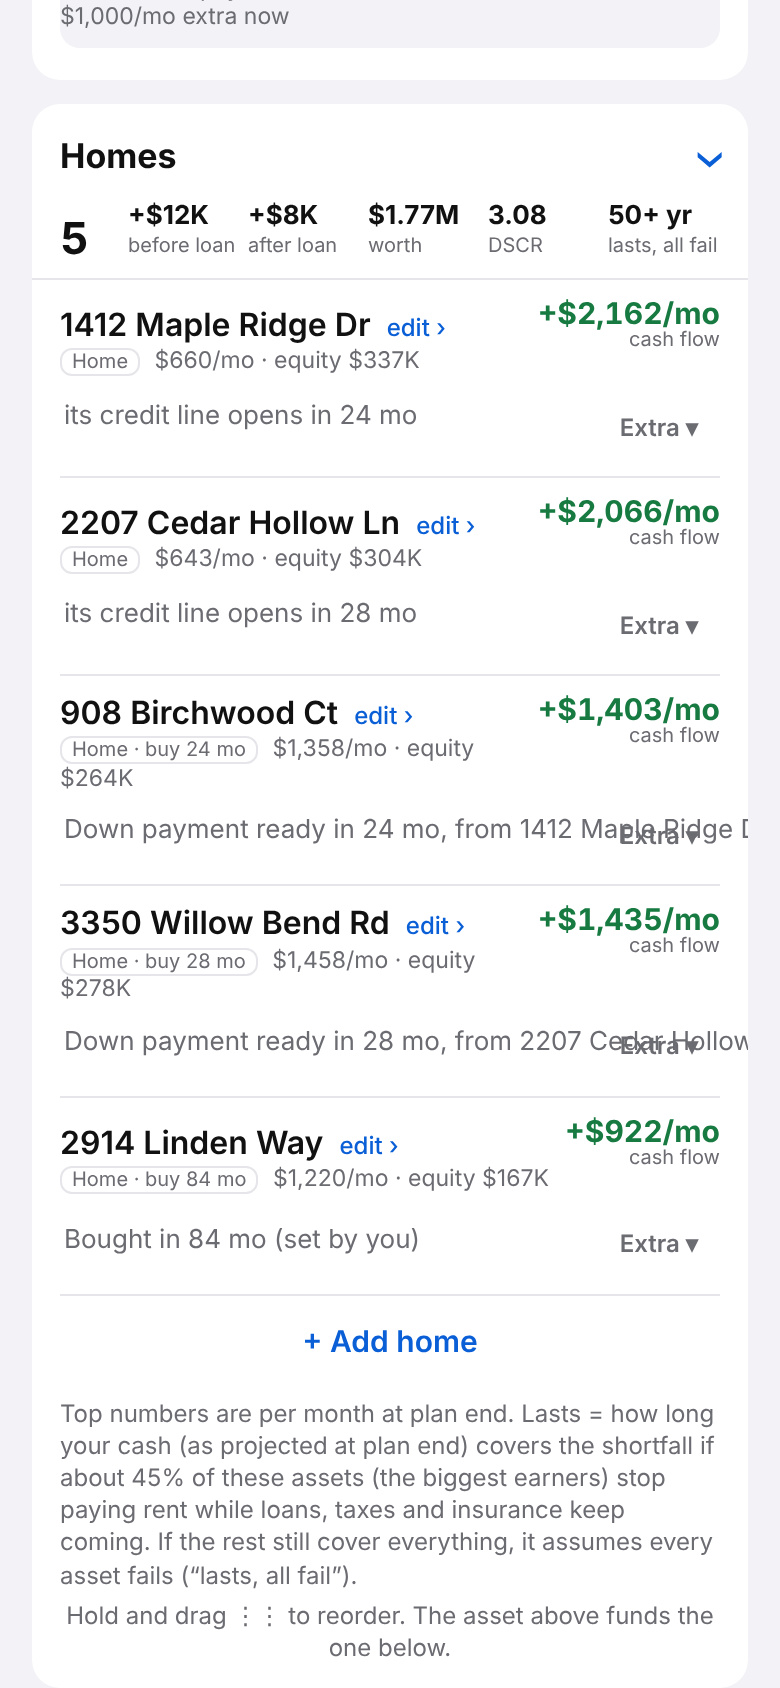
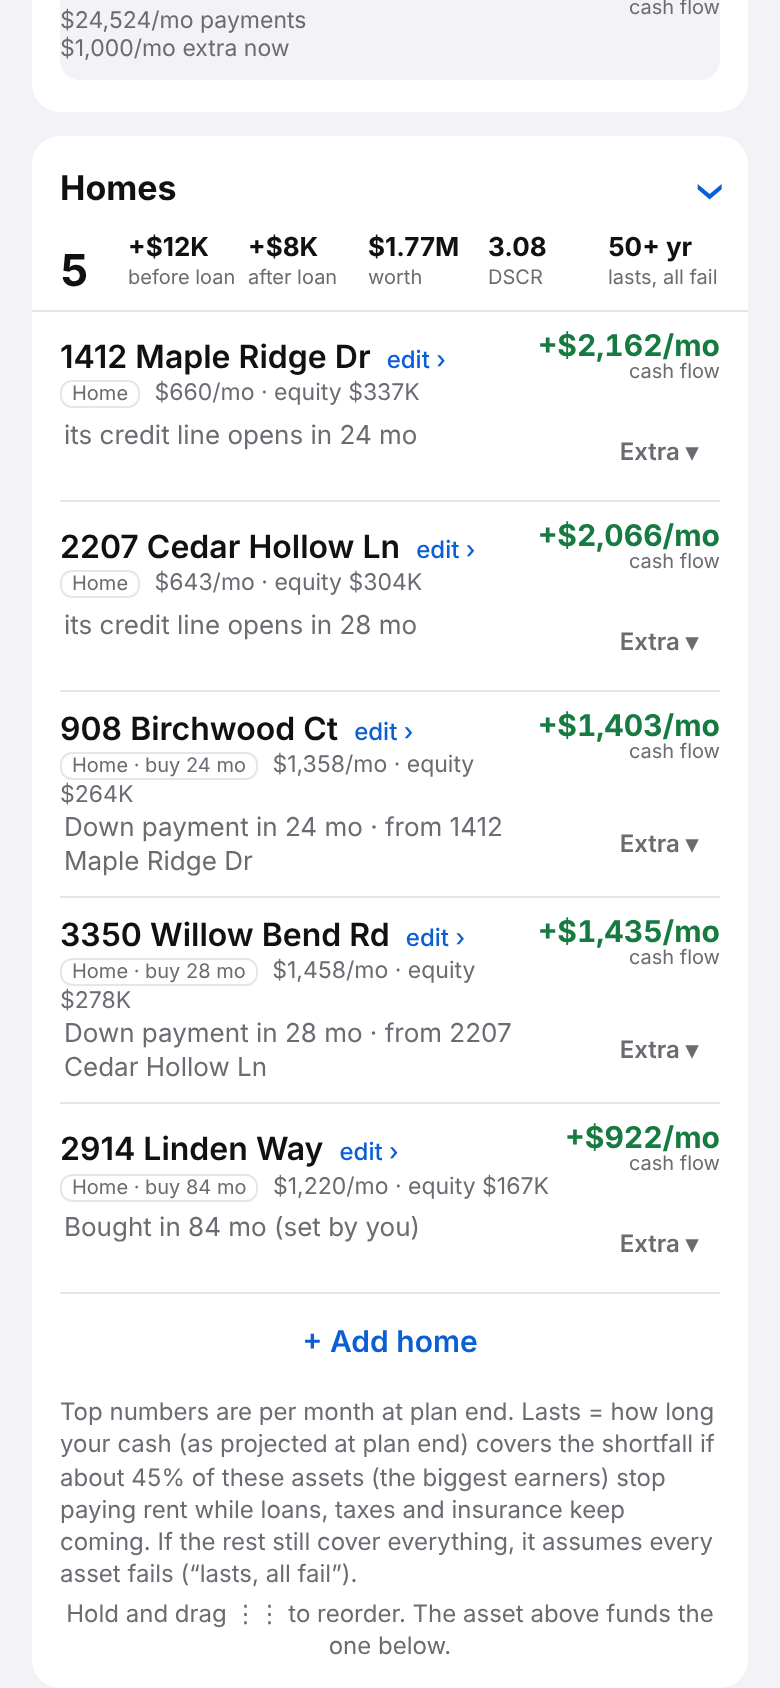
Fix overlapping row text: wrap down-payment line, shorter copy
Claude-Session: https://claude.ai/code/session_01T1SyQgdTcpALEohR2VebD5

diff --git a/prototype/v4/artifact.html b/prototype/v4/artifact.html
@@ -286,6 +286,10 @@ select.notarget{color:var(--mut);font-weight:400;font-size:14px}
 
 .xtog{min-height:32px;padding:0 10px;font-size:12px;font-weight:600;border-color:transparent;color:var(--mut)}
 .row .locline{font-size:13px}
+.row .fcol{flex:1 1 0;min-width:0}
+.row .fcol .locline{white-space:normal;overflow-wrap:anywhere;margin-top:0;font-size:13px;line-height:1.3}
+.row .r2{align-items:flex-start;flex-wrap:nowrap}
+.row .xtog{flex:none;margin:0}
 
 </style>
 <main id="app" aria-live="polite"></main>
@@ -987,7 +991,7 @@ select.notarget{color:var(--mut);font-weight:400;font-size:14px}
       const hi = v.X > 2000 && v.X > 3 * v.P ? '<span class="hi">unusually high extra</span>' : '';
       return `<div class="rw" data-rw="${h.id}"><div class="row${soldBy ? ' sold' : ''}${sel ? ' sel' : ''}" data-row="${h.id}" data-testid="ledger-row"${soldBy ? ' data-nodrag' : ''}><div class="r1"><span class="nm"><button type="button" class="addrbtn" aria-expanded="${sel}" data-testid="row-toggle"><span class="addr" data-go="h/${h.id}" data-testid="row-edit" title="Edit ${esc(h.addr)}">${esc(h.addr)} <i class="ed" aria-hidden="true">edit ›</i></span><span class="pay" data-testid="row-payment" data-k="pay-${h.id}" data-equity="${sp ? Math.round(sp.equity) : ''}"><span class="tag">${tag}</span> ${soldBy ? 'sold' : sp ? (sp.payment > 0.5 ? $f(sp.payment) + '/mo' : v.payment > 0.5 ? 'paid off by then' : 'no loan') + ' · equity ' + $k(sp.equity) : 'not in the totals yet'} ${hi}${loses}</span>${(() => { const parts = []; if (h.capex) parts.push('improve ' + $c(h.capex)); if (soldBy) parts.push('sold for ' + $c(pl.exits[h.id].proceeds) + ' in ' + mm(pl.sellAt[h.id])); else if (exitTxt) parts.push(exitTxt); return parts.length ? `<span class="exitline">${parts.join(' · ')}</span>` : ''; })()}</button></span>
         <span class="cfl ${(sp ? sp.cf : 0) < 0 ? 'bad' : 'ok'}" data-testid="row-cashflow" title="This asset's share of the portfolio cash flow: income minus expenses and loan payments, before extra payments"><b data-k="cf-${h.id}">${soldBy ? '+' + $c(pl.exits[h.id].proceeds) : !sp ? '—' : $s(sp.cf) + '/mo'}</b><small>${soldBy ? 'cash from sale' : !sp ? 'not counted' : 'cash flow'}</small></span></div>
-        <div class="r2">${soldBy ? `<div class="fcol"><span class="locline" data-testid="loc-line"></span></div>` : `<div class="fcol">${(() => { if (h.status !== 'planned') return ''; const srcs = S.houses.filter((x) => x.target === h.id && pl.funds[x.id]); if (srcs.length) return `<span class="locline" data-testid="dp-line">Down payment ready in ${mm(p)}, from ${esc(srcs[0].addr)}'s credit line</span>`; if (isFinite(p)) return `<span class="locline" data-testid="dp-line">Bought in ${mm(p)} (set by you${S.houses.some((x) => x.target === h.id) ? '; its funder pays another way' : ''})</span>`; return `<span class="locline" data-testid="dp-line">Not funded yet</span>`; })()}<span class="locline" data-testid="loc-line">${loc ? 'its credit line ' + loc : ''}</span></div>`}${soldBy ? '' : `<button type="button" class="xtog" data-panel="${h.id}" aria-expanded="${sel}" data-testid="row-extra-toggle" aria-label="Extra payment">Extra ${sel ? '▴' : '▾'}</button>`}</div></div>${sel ? panelOf(h, soldBy, vis, ci) : ''}</div>`; };
+        <div class="r2">${soldBy ? `<div class="fcol"><span class="locline" data-testid="loc-line"></span></div>` : `<div class="fcol">${(() => { if (h.status !== 'planned') return ''; const srcs = S.houses.filter((x) => x.target === h.id && pl.funds[x.id]); if (srcs.length) return `<span class="locline" data-testid="dp-line">Down payment in ${mm(p)} · from ${esc(srcs[0].addr)}</span>`; if (isFinite(p)) return `<span class="locline" data-testid="dp-line">Bought in ${mm(p)} (set by you${S.houses.some((x) => x.target === h.id) ? '; its funder pays another way' : ''})</span>`; return `<span class="locline" data-testid="dp-line">Not funded yet</span>`; })()}<span class="locline" data-testid="loc-line">${loc ? 'its credit line ' + loc : ''}</span></div>`}${soldBy ? '' : `<button type="button" class="xtog" data-panel="${h.id}" aria-expanded="${sel}" data-testid="row-extra-toggle" aria-label="Extra payment">Extra ${sel ? '▴' : '▾'}</button>`}</div></div>${sel ? panelOf(h, soldBy, vis, ci) : ''}</div>`; };
     const NOUN = { house: ['home', 'homes'], commercial: ['commercial property', 'commercial properties'], business: ['business', 'businesses'] }, ADD = { house: 'home', commercial: 'commercial property', business: 'business' };
     const empty = !S.houses.length;
     const fin = S.p ? E.finance(S, pl) : null;

diff --git a/prototype/v4/app.js b/prototype/v4/app.js
@@ -142,7 +142,7 @@
       const hi = v.X > 2000 && v.X > 3 * v.P ? '<span class="hi">unusually high extra</span>' : '';
       return `<div class="rw" data-rw="${h.id}"><div class="row${soldBy ? ' sold' : ''}${sel ? ' sel' : ''}" data-row="${h.id}" data-testid="ledger-row"${soldBy ? ' data-nodrag' : ''}><div class="r1"><span class="nm"><button type="button" class="addrbtn" aria-expanded="${sel}" data-testid="row-toggle"><span class="addr" data-go="h/${h.id}" data-testid="row-edit" title="Edit ${esc(h.addr)}">${esc(h.addr)} <i class="ed" aria-hidden="true">edit ›</i></span><span class="pay" data-testid="row-payment" data-k="pay-${h.id}" data-equity="${sp ? Math.round(sp.equity) : ''}"><span class="tag">${tag}</span> ${soldBy ? 'sold' : sp ? (sp.payment > 0.5 ? $f(sp.payment) + '/mo' : v.payment > 0.5 ? 'paid off by then' : 'no loan') + ' · equity ' + $k(sp.equity) : 'not in the totals yet'} ${hi}${loses}</span>${(() => { const parts = []; if (h.capex) parts.push('improve ' + $c(h.capex)); if (soldBy) parts.push('sold for ' + $c(pl.exits[h.id].proceeds) + ' in ' + mm(pl.sellAt[h.id])); else if (exitTxt) parts.push(exitTxt); return parts.length ? `<span class="exitline">${parts.join(' · ')}</span>` : ''; })()}</button></span>
         <span class="cfl ${(sp ? sp.cf : 0) < 0 ? 'bad' : 'ok'}" data-testid="row-cashflow" title="This asset's share of the portfolio cash flow: income minus expenses and loan payments, before extra payments"><b data-k="cf-${h.id}">${soldBy ? '+' + $c(pl.exits[h.id].proceeds) : !sp ? '—' : $s(sp.cf) + '/mo'}</b><small>${soldBy ? 'cash from sale' : !sp ? 'not counted' : 'cash flow'}</small></span></div>
-        <div class="r2">${soldBy ? `<div class="fcol"><span class="locline" data-testid="loc-line"></span></div>` : `<div class="fcol">${(() => { if (h.status !== 'planned') return ''; const srcs = S.houses.filter((x) => x.target === h.id && pl.funds[x.id]); if (srcs.length) return `<span class="locline" data-testid="dp-line">Down payment ready in ${mm(p)}, from ${esc(srcs[0].addr)}'s credit line</span>`; if (isFinite(p)) return `<span class="locline" data-testid="dp-line">Bought in ${mm(p)} (set by you${S.houses.some((x) => x.target === h.id) ? '; its funder pays another way' : ''})</span>`; return `<span class="locline" data-testid="dp-line">Not funded yet</span>`; })()}<span class="locline" data-testid="loc-line">${loc ? 'its credit line ' + loc : ''}</span></div>`}${soldBy ? '' : `<button type="button" class="xtog" data-panel="${h.id}" aria-expanded="${sel}" data-testid="row-extra-toggle" aria-label="Extra payment">Extra ${sel ? '▴' : '▾'}</button>`}</div></div>${sel ? panelOf(h, soldBy, vis, ci) : ''}</div>`; };
+        <div class="r2">${soldBy ? `<div class="fcol"><span class="locline" data-testid="loc-line"></span></div>` : `<div class="fcol">${(() => { if (h.status !== 'planned') return ''; const srcs = S.houses.filter((x) => x.target === h.id && pl.funds[x.id]); if (srcs.length) return `<span class="locline" data-testid="dp-line">Down payment in ${mm(p)} · from ${esc(srcs[0].addr)}</span>`; if (isFinite(p)) return `<span class="locline" data-testid="dp-line">Bought in ${mm(p)} (set by you${S.houses.some((x) => x.target === h.id) ? '; its funder pays another way' : ''})</span>`; return `<span class="locline" data-testid="dp-line">Not funded yet</span>`; })()}<span class="locline" data-testid="loc-line">${loc ? 'its credit line ' + loc : ''}</span></div>`}${soldBy ? '' : `<button type="button" class="xtog" data-panel="${h.id}" aria-expanded="${sel}" data-testid="row-extra-toggle" aria-label="Extra payment">Extra ${sel ? '▴' : '▾'}</button>`}</div></div>${sel ? panelOf(h, soldBy, vis, ci) : ''}</div>`; };
     const NOUN = { house: ['home', 'homes'], commercial: ['commercial property', 'commercial properties'], business: ['business', 'businesses'] }, ADD = { house: 'home', commercial: 'commercial property', business: 'business' };
     const empty = !S.houses.length;
     const fin = S.p ? E.finance(S, pl) : null;

diff --git a/prototype/v4/style.css b/prototype/v4/style.css
@@ -283,3 +283,7 @@ select.notarget{color:var(--mut);font-weight:400;font-size:14px}
 
 .xtog{min-height:32px;padding:0 10px;font-size:12px;font-weight:600;border-color:transparent;color:var(--mut)}
 .row .locline{font-size:13px}
+.row .fcol{flex:1 1 0;min-width:0}
+.row .fcol .locline{white-space:normal;overflow-wrap:anywhere;margin-top:0;font-size:13px;line-height:1.3}
+.row .r2{align-items:flex-start;flex-wrap:nowrap}
+.row .xtog{flex:none;margin:0}
